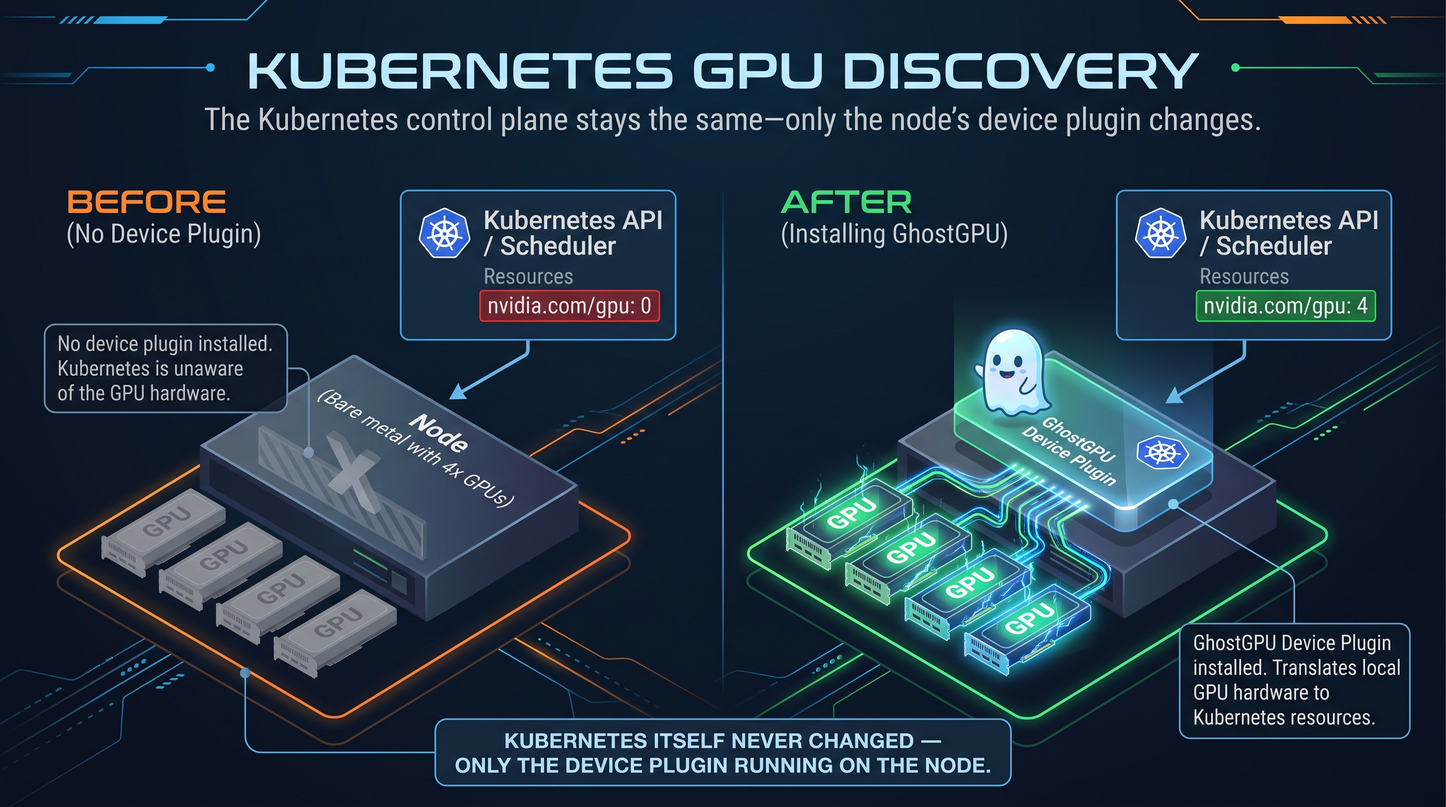
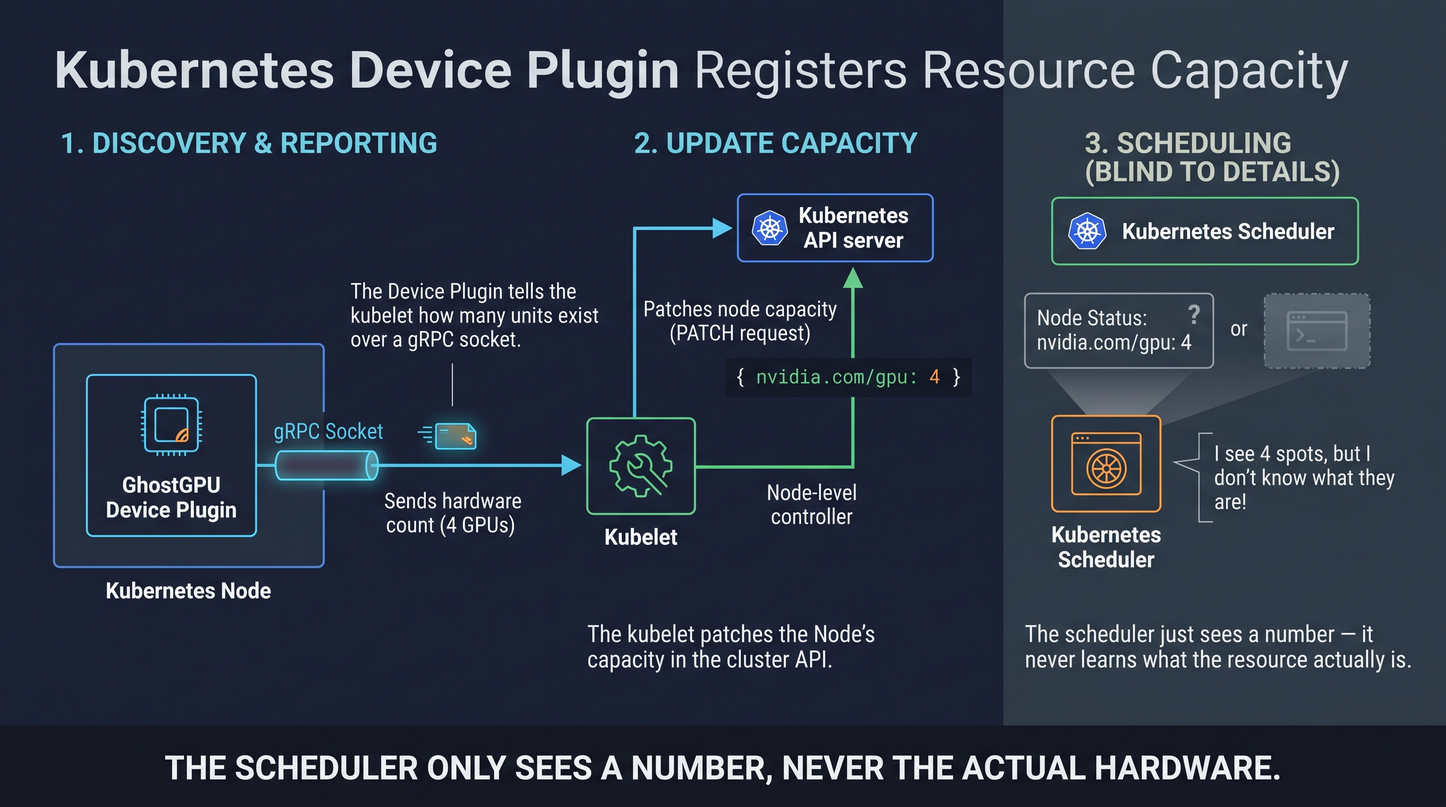
Lesson 1.1: finalize all 4 images — upgrade cpu-vs-gpu to v2, add remaining diagrams

diff --git a/course-1/module-1/1.lesson-gpu-fundamentals/unit-1.md b/course-1/module-1/1.lesson-gpu-fundamentals/unit-1.md
@@ -12,7 +12,7 @@ A GPU is the opposite shape. Instead of a handful of clever cores, it has **thou
 
 ::image-box
 ---
-:src: __static__/cpu-vs-gpu-v1.png
+:src: __static__/cpu-vs-gpu-v2.png
 :alt: Side-by-side comparison illustration. Left panel labeled "CPU" shows 8 large glowing blue cores arranged in a grid, each with a gear icon suggesting complex logic, with the caption "a few powerful cores — fast at one task at a time". Right panel labeled "GPU" shows a dense grid of hundreds of small green cores all lit up simultaneously, with the caption "thousands of simple cores — the same operation across huge data, all at once". Below both panels, a shared timeline bar shows the CPU processing matrix operations sequentially (a long thin bar) versus the GPU processing them in parallel (a short wide bar), with the label "same AI workload: GPU finishes 10–100x sooner".
 :max-width: 860px
 ---
